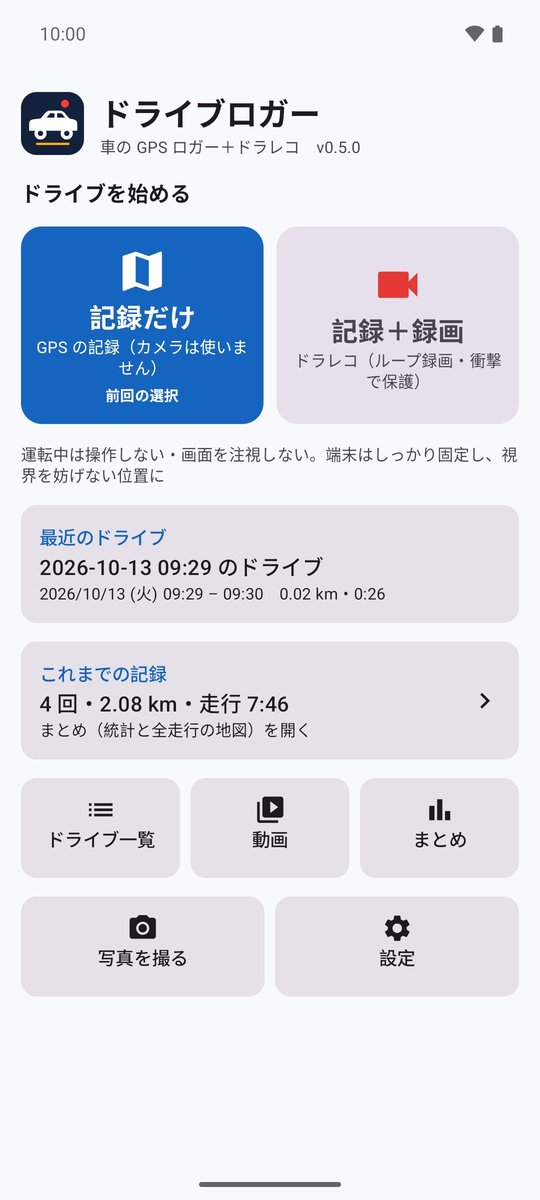
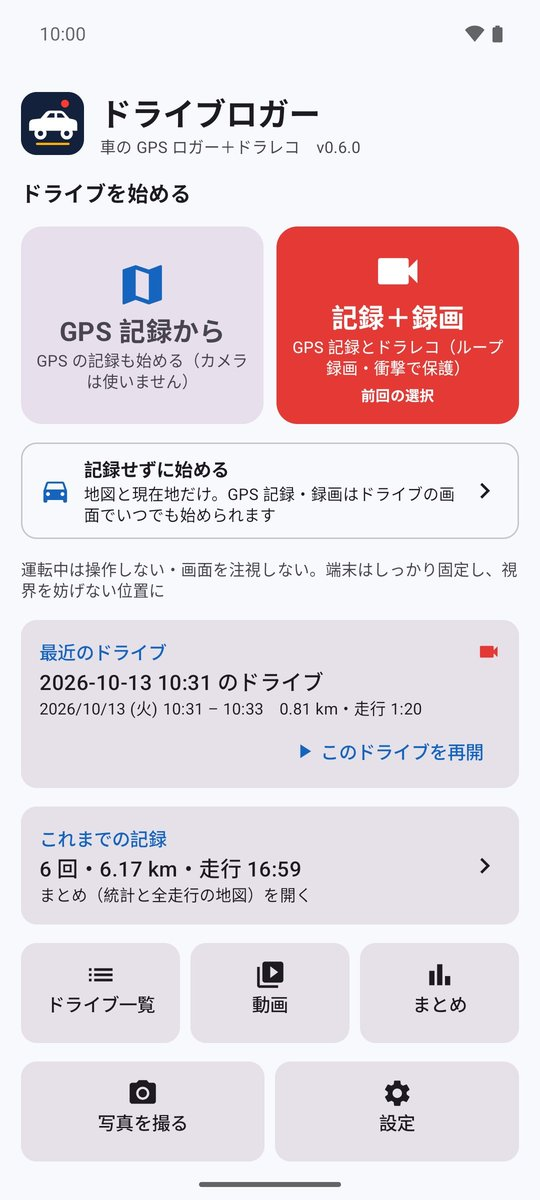
ドライブロガー v0.6.0（ドライブの中に複数の GPS 記録・録画、終了したドライブの再開）

diff --git a/drive_logger/README.md b/drive_logger/README.md
@@ -6,13 +6,13 @@
 
 ## ダウンロード
 
-### [APK をダウンロード（v0.5.0・16.8 MB）](https://github.com/kijitora-no-hito/android-apps/releases/download/drivelogger-v0.5.0/drivelogger-0.5.0-release.apk)
+### [APK をダウンロード（v0.6.0・16.8 MB）](https://github.com/kijitora-no-hito/android-apps/releases/download/drivelogger-v0.6.0/drivelogger-0.6.0-release.apk)
 
 | 項目 | 内容 |
 | --- | --- |
-| バージョン | 0.5.0（2026-10-13） |
-| ファイル | `drivelogger-0.5.0-release.apk`（17,571,733 バイト） |
[1 lines of base64/hex data omitted]
+| バージョン | 0.6.0（2026-10-13） |
+| ファイル | `drivelogger-0.6.0-release.apk`（17,664,177 バイト） |
[1 lines of base64/hex data omitted]
 | 対応 Android | 7.0 以上 |
 | 権限 | 位置情報（使用中のみ。「常に許可」は任意）、カメラ（録画・写真）、マイク（音声を録るときだけ・既定 OFF）、通知、インターネット（地図・更新の確認） |
 | 価格 | 無料・広告なし・アプリ内課金なし・アカウント登録なし |
@@ -23,12 +23,15 @@
 
 ### 走行の記録（基本）
 
-- ホームの［記録だけ］か［記録＋録画］でドライブを始めます。ホームには最近のドライブ・これまでの記録と、一覧・動画・まとめ・設定への入口。
-- 走行画面は地図と大きな速度、走行距離・経過時間・停車時間。ドライブ中にアプリを開くと走行画面に直接戻ります。
+- **ドライブは記録の入れ物**です。1 つのドライブの中で、GPS 記録と録画をそれぞれ何度でも開始・停止でき、複数の GPS 記録・録画が入ります。
+- ホームの［GPS 記録から］［記録＋録画］［記録せずに始める］でドライブを始めます。ホームには最近のドライブ・これまでの記録と、一覧・動画・まとめ・設定への入口。
+- 終了したドライブも［このドライブを再開］で開き直して、記録を追加できます。
+- 走行画面は地図と大きな速度、走行距離・経過時間・停車時間。記録中にアプリを開くと走行画面に直接戻ります。
 - 画面を消しても、アプリを裏に回しても記録を続けます（通知に表示）。途中でアプリが落ちても、記録は端末に残ります。
 - **GPS と加速度センサーの組み合わせ**: GPS の位置・速度を、加速度とジャイロで補って軌跡と速度のばらつきを減らします。ビル街や短いトンネルで GPS が途切れても、しばらくは推測で補います（設定で OFF にできます。元の GPS の値も残します）。
 - **停車中は測位を止めます**: 止まっていると判断したら GPS を止めて電池を節約し、止まった位置にいるものとして記録します。動き出すとすぐに再開します。
-- ドライブごとに、地図の軌跡（速度で色分け）・距離・時間・平均/最高速度・停車時間・獲得標高、5 km / 10 km ごとの区間、速度の分布（10 km/h ごと）。GPX で書き出し・共有。
+- ドライブごとに、地図の軌跡（速度で色分け）・距離・走行時間と経過時間・平均/最高速度・停車時間・獲得標高、5 km / 10 km ごとの区間、速度の分布（10 km/h ごと）。距離や時間は GPS 記録の合計です（記録と記録の間の移動は数えず、線もつなぎません）。
+- 記録の一覧（GPS 記録・録画ごとの時刻・距離・長さ）。GPX は記録ごとにも、ドライブ全体でも書き出し・共有できます。
 - **タイムライン**: 録画した区間・写真・駐車・停車・衝撃を時刻の順に。タップでその場面の動画・写真・地図へ。
 
 ### 写真と駐車（寄り道）
@@ -39,7 +42,7 @@
 
 ### 録画（オプション）
 
-- 開始のときに［記録だけ］か［記録＋録画］を選べ、走行中にも［録画 ON / OFF］で切り替えられます（記録は途切れません）。
+- ドライブの中でいつでも［録画］［録画 停止］できます。録画を始めると GPS 記録も一緒に始まり（表示を重ねるのに使います）、録画を止めても GPS 記録は続きます。
 - 録画中は**横画面**が既定です（設定で端末の向きに従うことも）。
 - **表示はあとから重ねる**（既定）: 録画は表示なしのきれいな映像で保存し、日時・速度・緯度経度・方位・メーター・地図などの表示は、再生やギャラリー・SNS への書き出しのときに GPS の記録から重ねます。書き出すたびに入れる項目を選べ、入れない項目は**最初から描きません**（黒い帯で覆いません）。録画のときに焼き込む方式も設定で選べます。画面の地図（Google マップ）は映像に入れません（地図は国土地理院の地図を使います）。
 - **ループ録画**: 1 / 3 / 5 分ごとのファイルに分けて録り続け、容量の上限（2〜16 GB）を超えたら、保護していない古いものから消します。
@@ -82,6 +85,11 @@
 <td align="center"><img src="images/10-sns-export.jpg" width="200" alt="SNS 用に書き出す"><br>SNS 用に書き出す</td>
 <td align="center"><img src="images/11-timeline.jpg" width="200" alt="タイムライン"><br>タイムライン（駐車中の写真）</td>
 <td align="center"><img src="images/13-cells.jpg" width="200" alt="開拓したマス"><br>開拓したマスと全走行</td>
+</tr>
+<tr>
+<td align="center"><img src="images/14-logs.jpg" width="200" alt="ドライブの中の記録の一覧"><br>1 つのドライブに複数の記録</td>
+<td></td>
+<td></td>
 </tr>
 <tr>
 <td align="center" colspan="3"><img src="images/12-landscape.jpg" width="480" alt="横向きの録画中に撮影"><br>横向きの録画中に写真を撮影</td>
